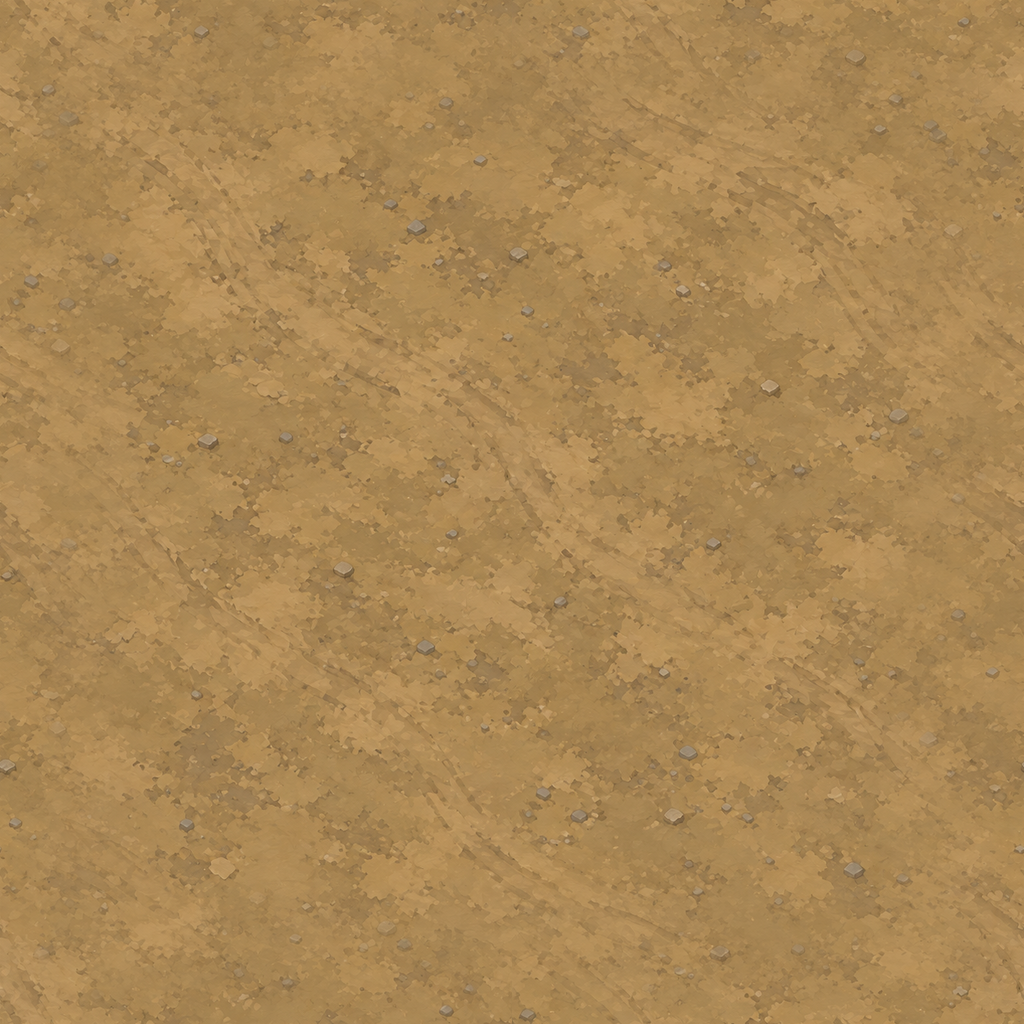
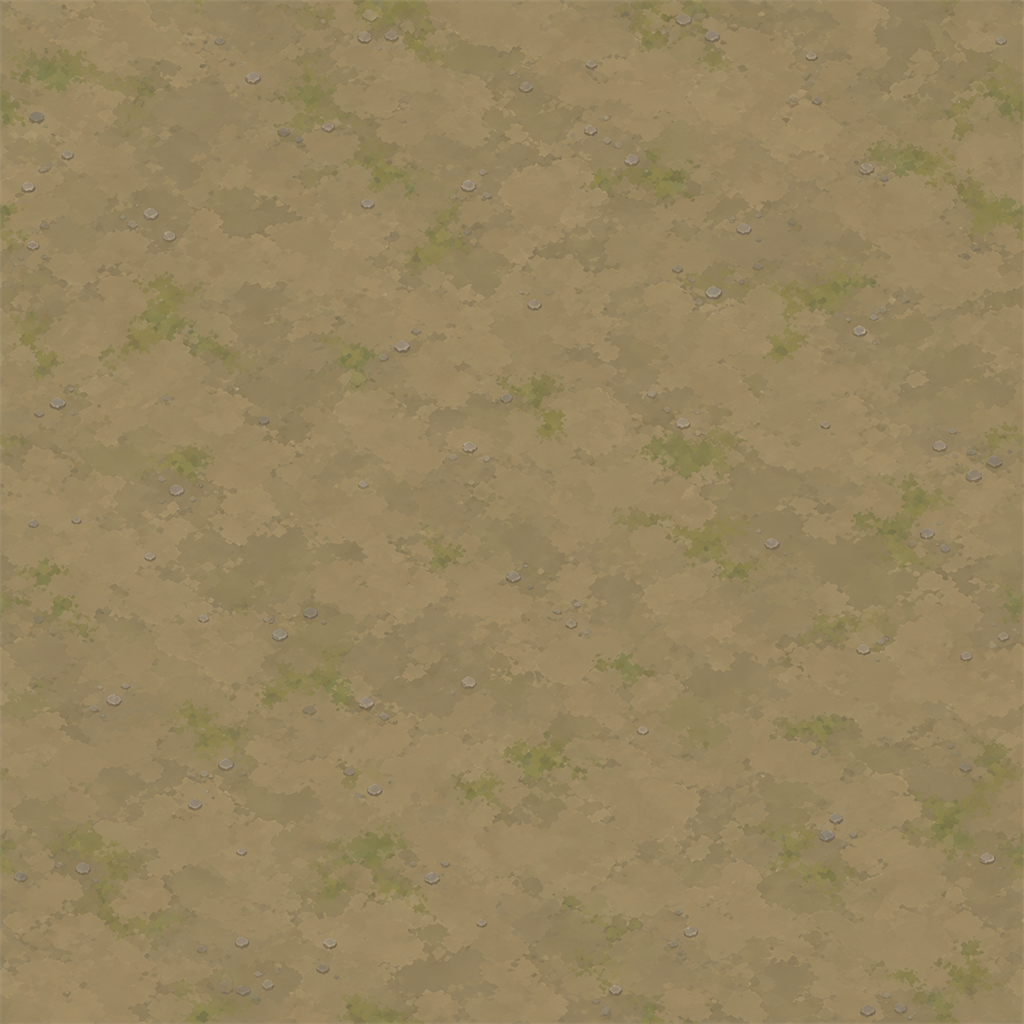
art: refresh dirt and wall textures

diff --git a/art_inbox/YEU_CAU_STYLE.md b/art_inbox/YEU_CAU_STYLE.md
@@ -64,8 +64,8 @@ phải trông như cùng một bộ.
 
 | Xong | Tên | Nội dung | Ảnh 1024 phủ |
 |---|---|---|---|
-| [ ] | `dirt` | Đường đất nện trong rừng: be xám ấm `#A69676` – sẫm `#8C7C5E` (ngả về màu khe của `pave`, **không cam**), mặt đất phẳng mịn có mảng sáng tối loang **không theo hướng nào**, sỏi dẹt nhỏ li ti rải thưa, vài mảng cỏ khô nhỏ màu ô-liu nhạt. Không vệt bánh xe, không vệt chéo | 6 m |
-| [ ] | `wall_face` | Mặt tường thành / rào đá: **cùng loại đá với `pave`** (xám ấm `#8A8A80`, sáng `#A4A296`, tối `#6C6C64`) nhưng xếp thành hàng khối lớn **không đều** (cao 0,5–0,7 m, dài 0,8–1,6 m), mép bo tròn vẽ tay, mạch vữa sẫm ấm, rêu xanh nhạt ở mạch dưới. Mỗi hàng lệch nhau, không kẻ thẳng tắp như gạch. **Lặp liền mép cả ngang lẫn dọc** | 4 m |
+| [x] | `dirt` | Đường đất nện trong rừng: be xám ấm `#A69676` – sẫm `#8C7C5E` (ngả về màu khe của `pave`, **không cam**), mặt đất phẳng mịn có mảng sáng tối loang **không theo hướng nào**, sỏi dẹt nhỏ li ti rải thưa, vài mảng cỏ khô nhỏ màu ô-liu nhạt. Không vệt bánh xe, không vệt chéo. Làm lại: bỏ cam / vệt chéo, đồng bộ nét cọ với `pave`. | 6 m |
+| [x] | `wall_face` | Mặt tường thành / rào đá: **cùng loại đá với `pave`** (xám ấm `#8A8A80`, sáng `#A4A296`, tối `#6C6C64`) nhưng xếp thành hàng khối lớn **không đều** (cao 0,5–0,7 m, dài 0,8–1,6 m), mép bo tròn vẽ tay, mạch vữa sẫm ấm, rêu xanh nhạt ở mạch dưới. Mỗi hàng lệch nhau, không kẻ thẳng tắp như gạch. **Lặp liền mép cả ngang lẫn dọc**. Làm lại: bỏ lưới gạch lạnh đều, dùng đá bo tròn cùng họ `pave`. | 4 m |
 
 Nộp xong `dirt` và `wall_face` thì **DỪNG**, báo người dùng.
 
